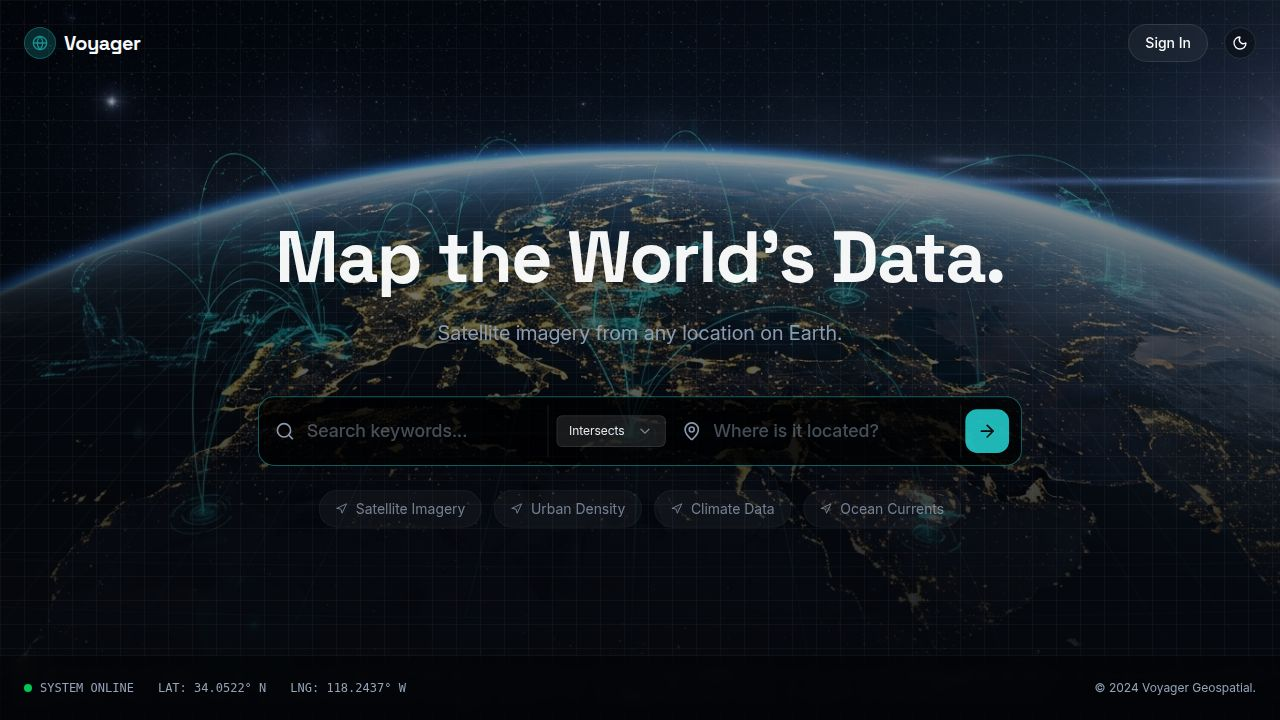
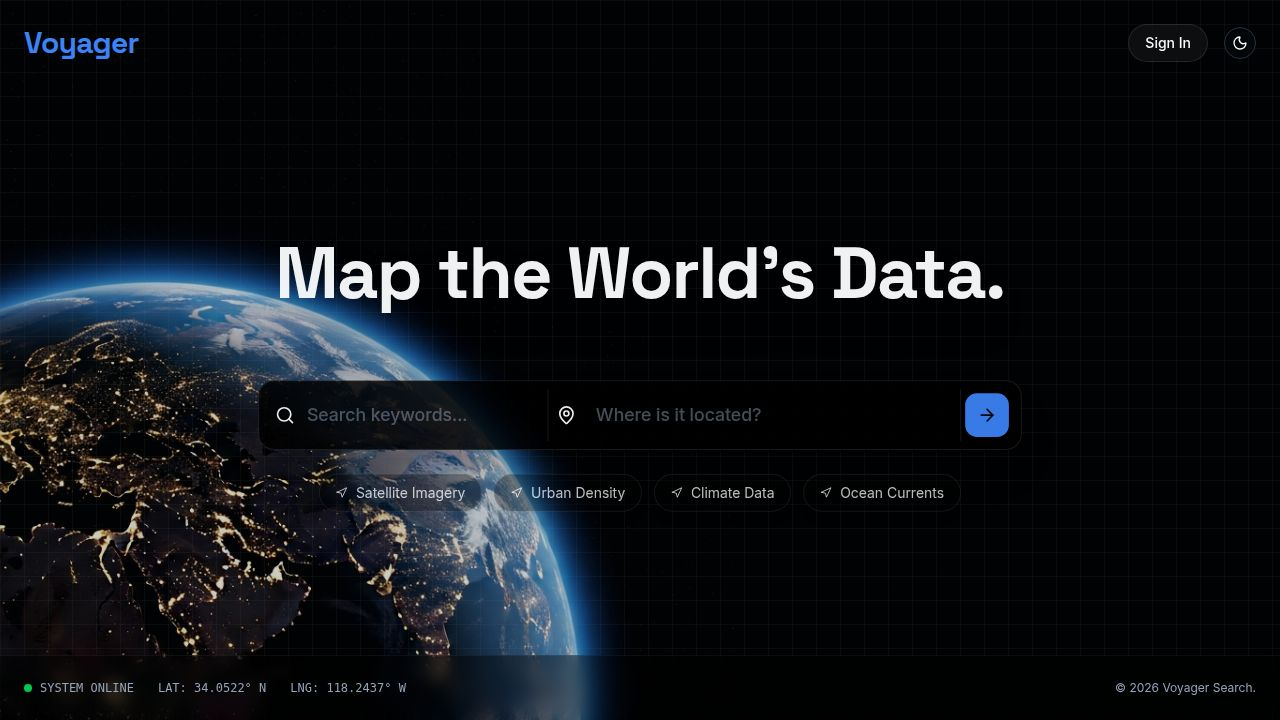
Update footer year and product name to reflect current branding
Update the copyright year to 2026 and change the product name from "Voyager Geospatial" to "Voyager Search" in the footer.

Replit-Commit-Author: Agent
Replit-Commit-Session-Id: c0fae4fa-6702-408f-ade5-af7f8521c2ab
Replit-Commit-Checkpoint-Type: full_checkpoint
Replit-Commit-Event-Id: 6e144492-94b2-4662-be87-c6fc731ba2c9
Replit-Commit-Screenshot-Url: https://storage.googleapis.com/screenshot-production-us-central1/754668fe-c386-4e2b-871c-f13b6993eee0/c0fae4fa-6702-408f-ade5-af7f8521c2ab/15RNlSO
Replit-Helium-Checkpoint-Created: true

diff --git a/client/src/pages/home.tsx b/client/src/pages/home.tsx
@@ -243,7 +243,7 @@ export default function Home() {
             <span>LNG: 118.2437° W</span>
           </div>
           <div>
-            &copy; 2024 Voyager Geospatial.
+            &copy; 2026 Voyager Search.
           </div>
         </div>
       </footer>
